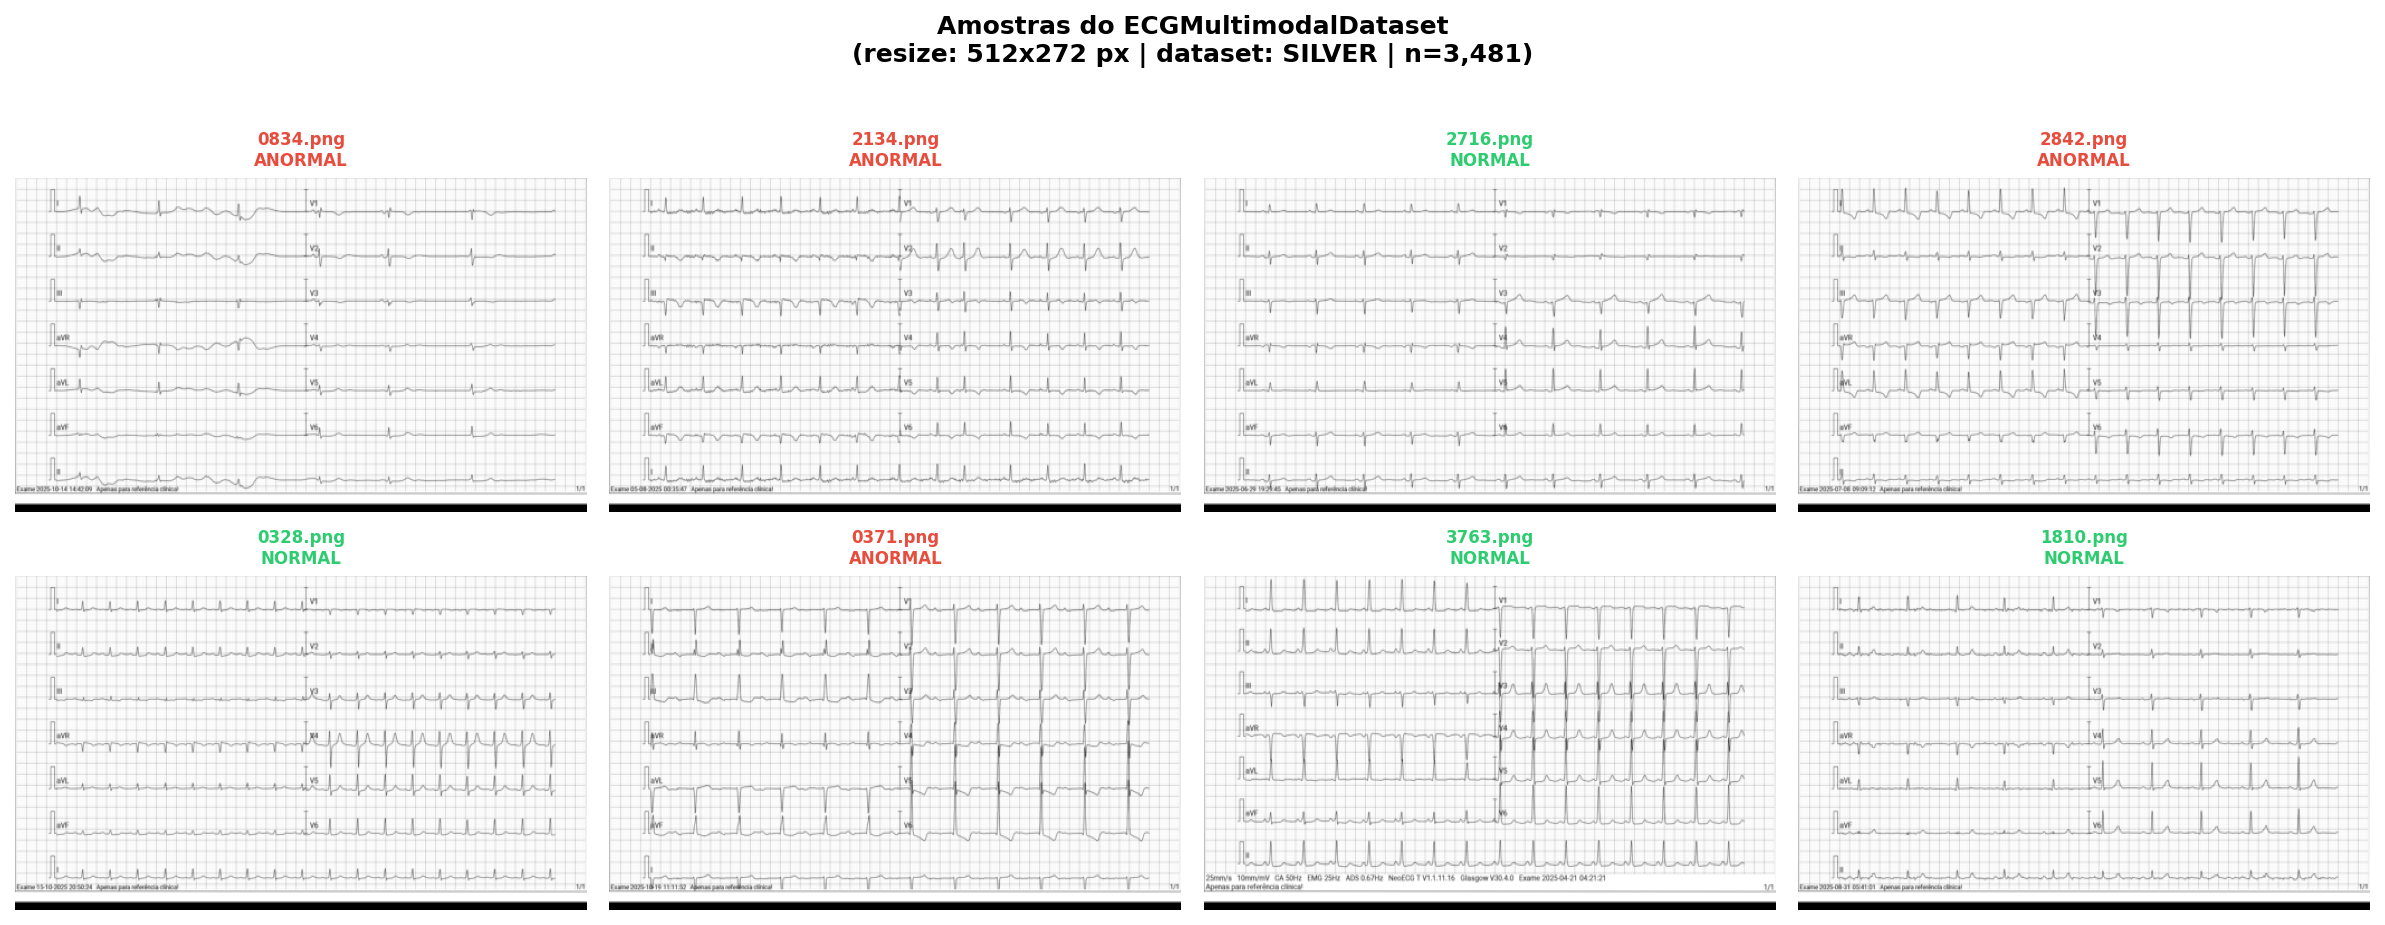
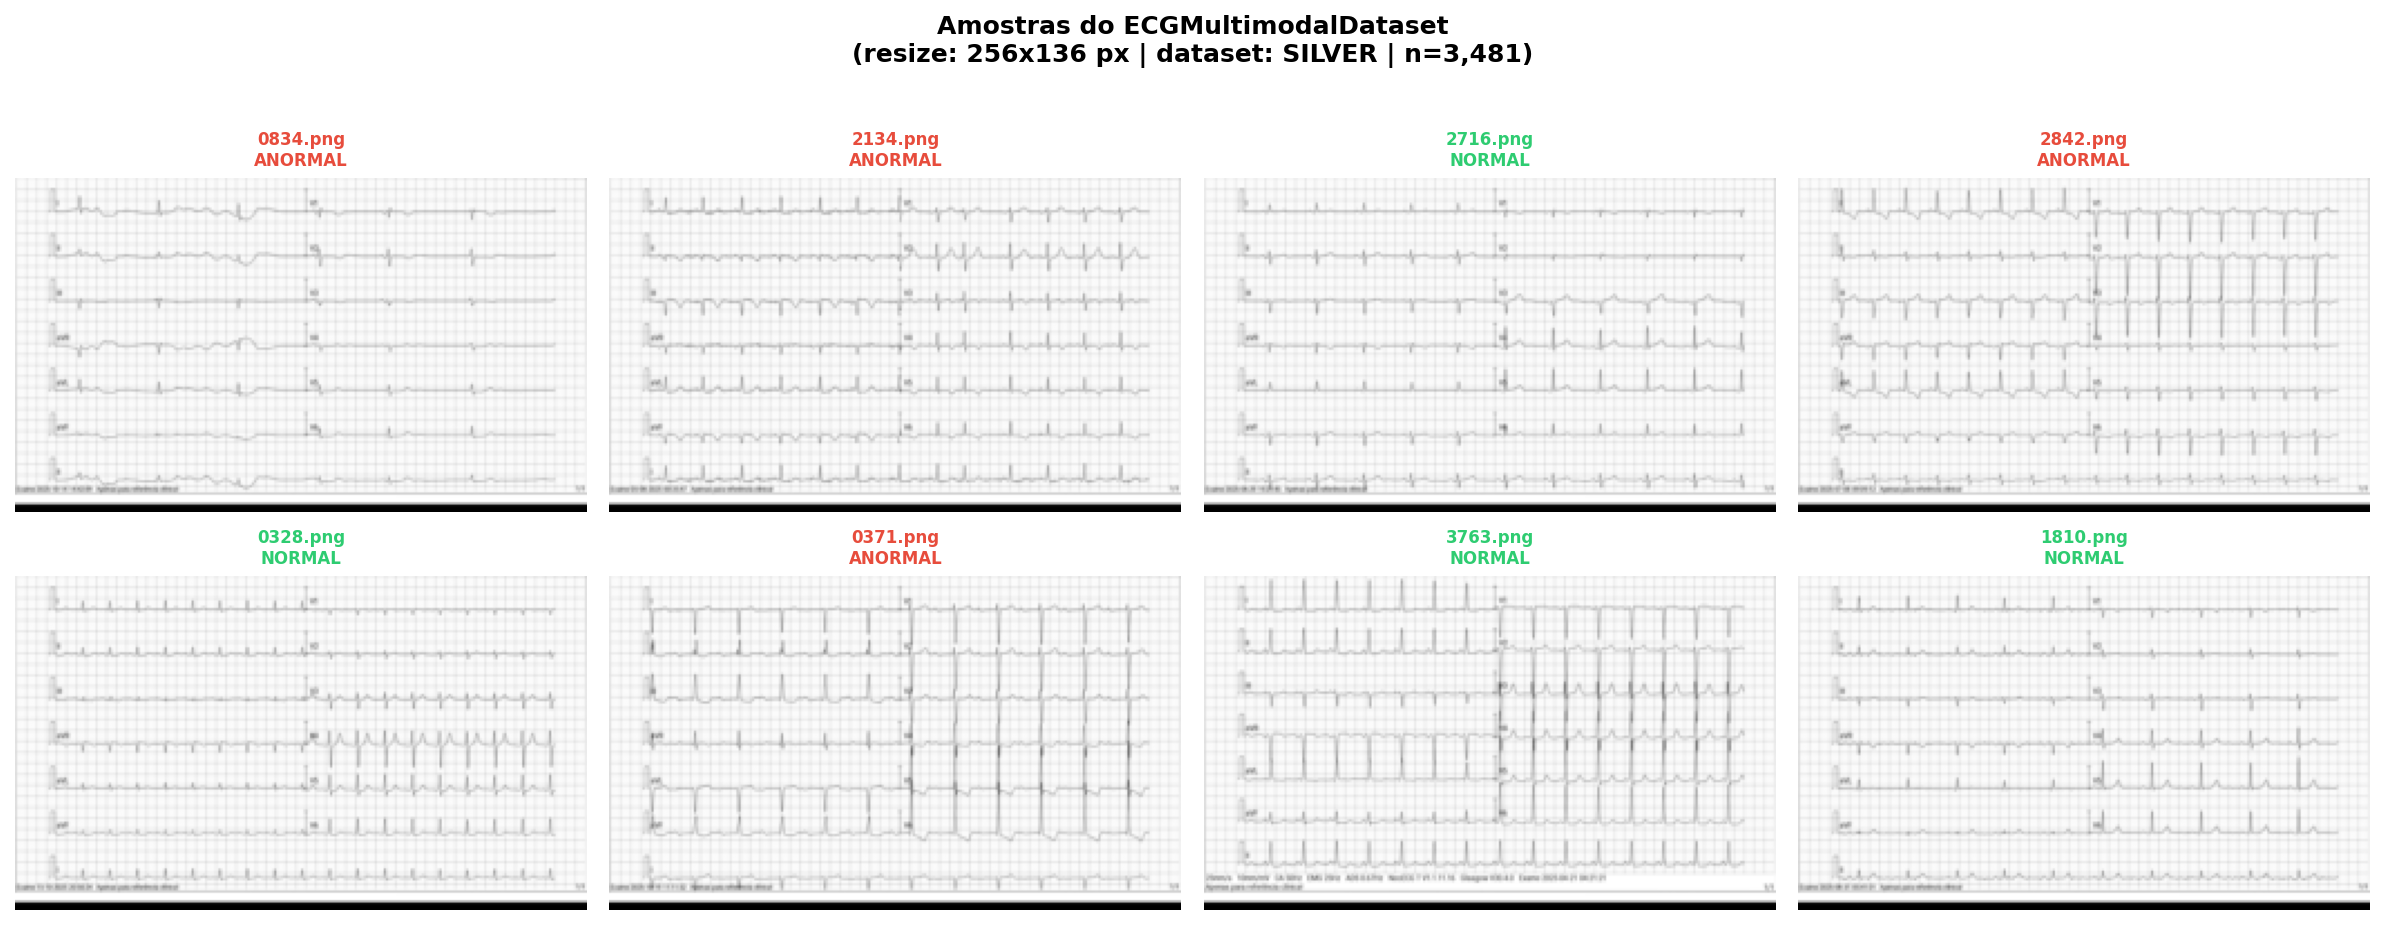
Data: Add the output of the script 8

diff --git a/src/script_08_pytorch_dataset.py b/src/script_08_pytorch_dataset.py
@@ -825,7 +825,7 @@ def exportar_relatorio_sanidade(
         f"Batch size      : {config['batch_size']}",
         f"Num workers     : {config['num_workers']}",
         "",
-        "SPLITS (base: GOLD, 0% imputacao)",
+        "SPLITS (base: SILVER)",
         "-" * 40,
         f"Total           : {total:,} registros",
         f"Train (70%)     : {len(train_idx):,} registros",